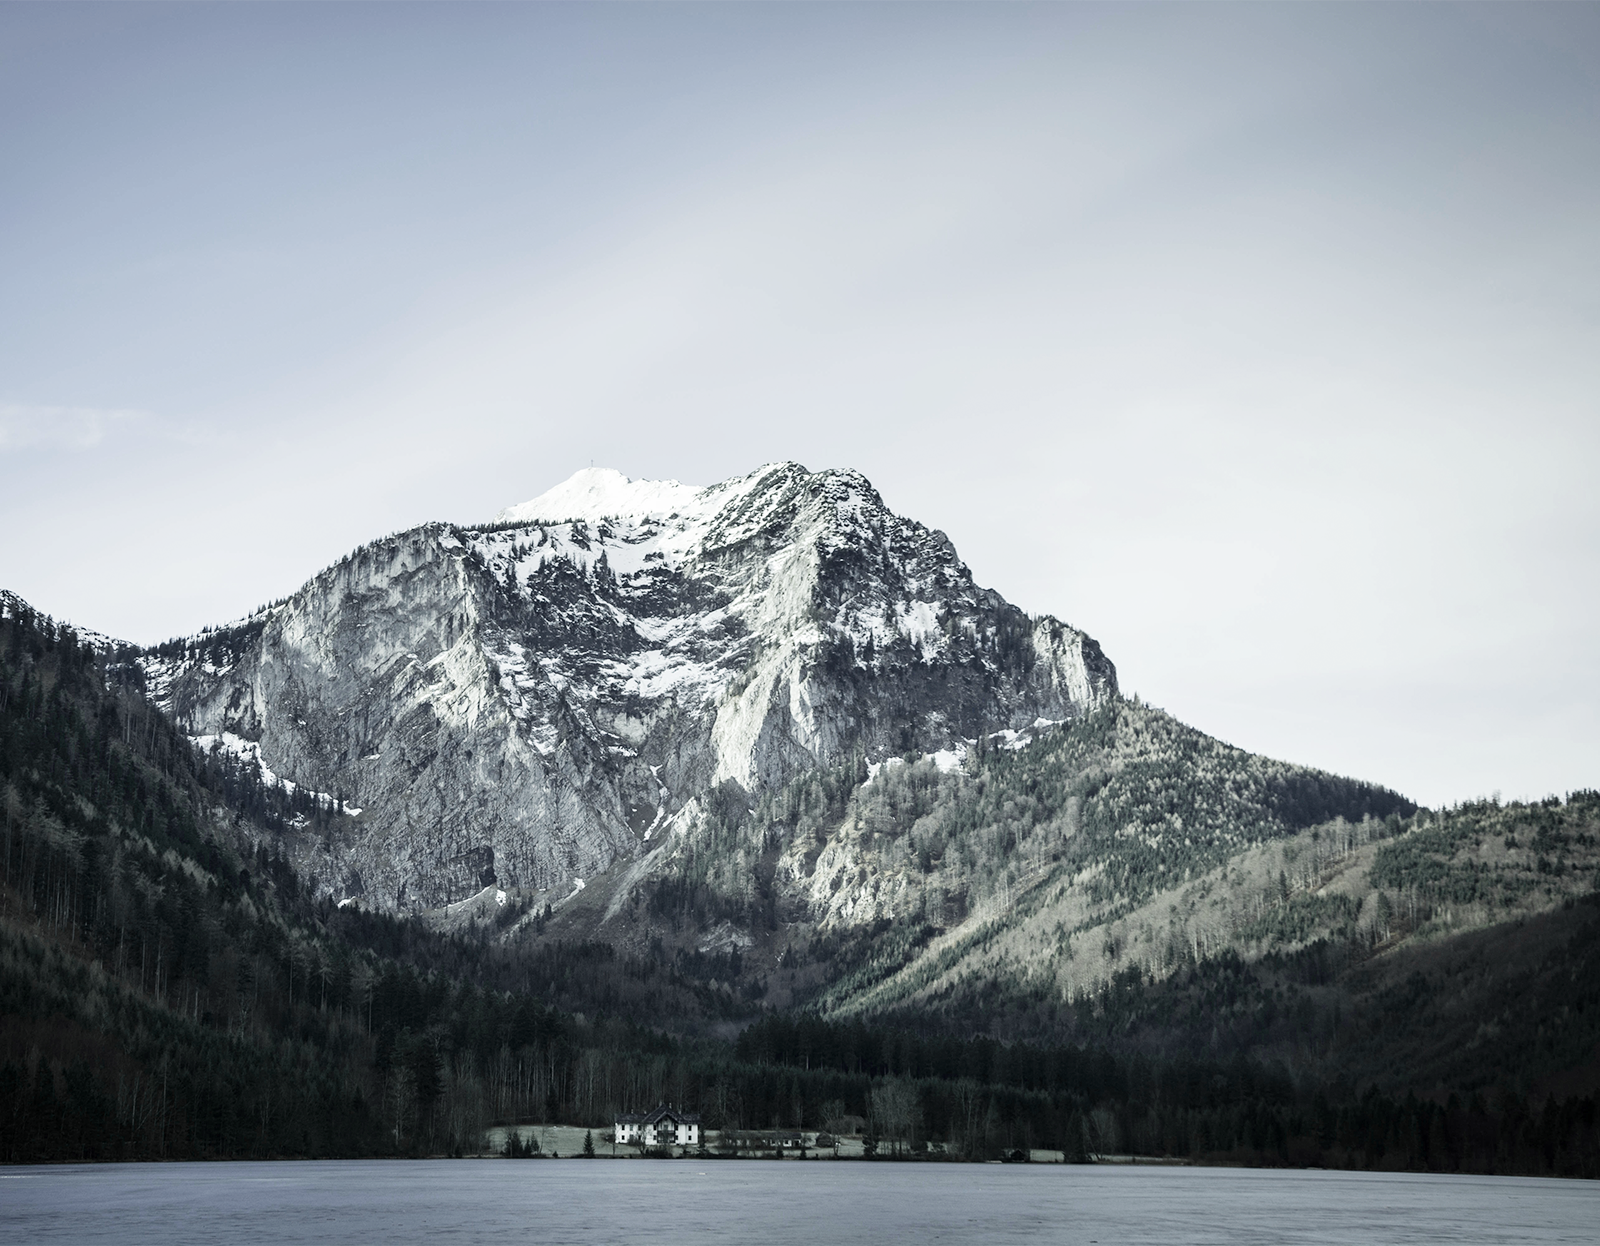
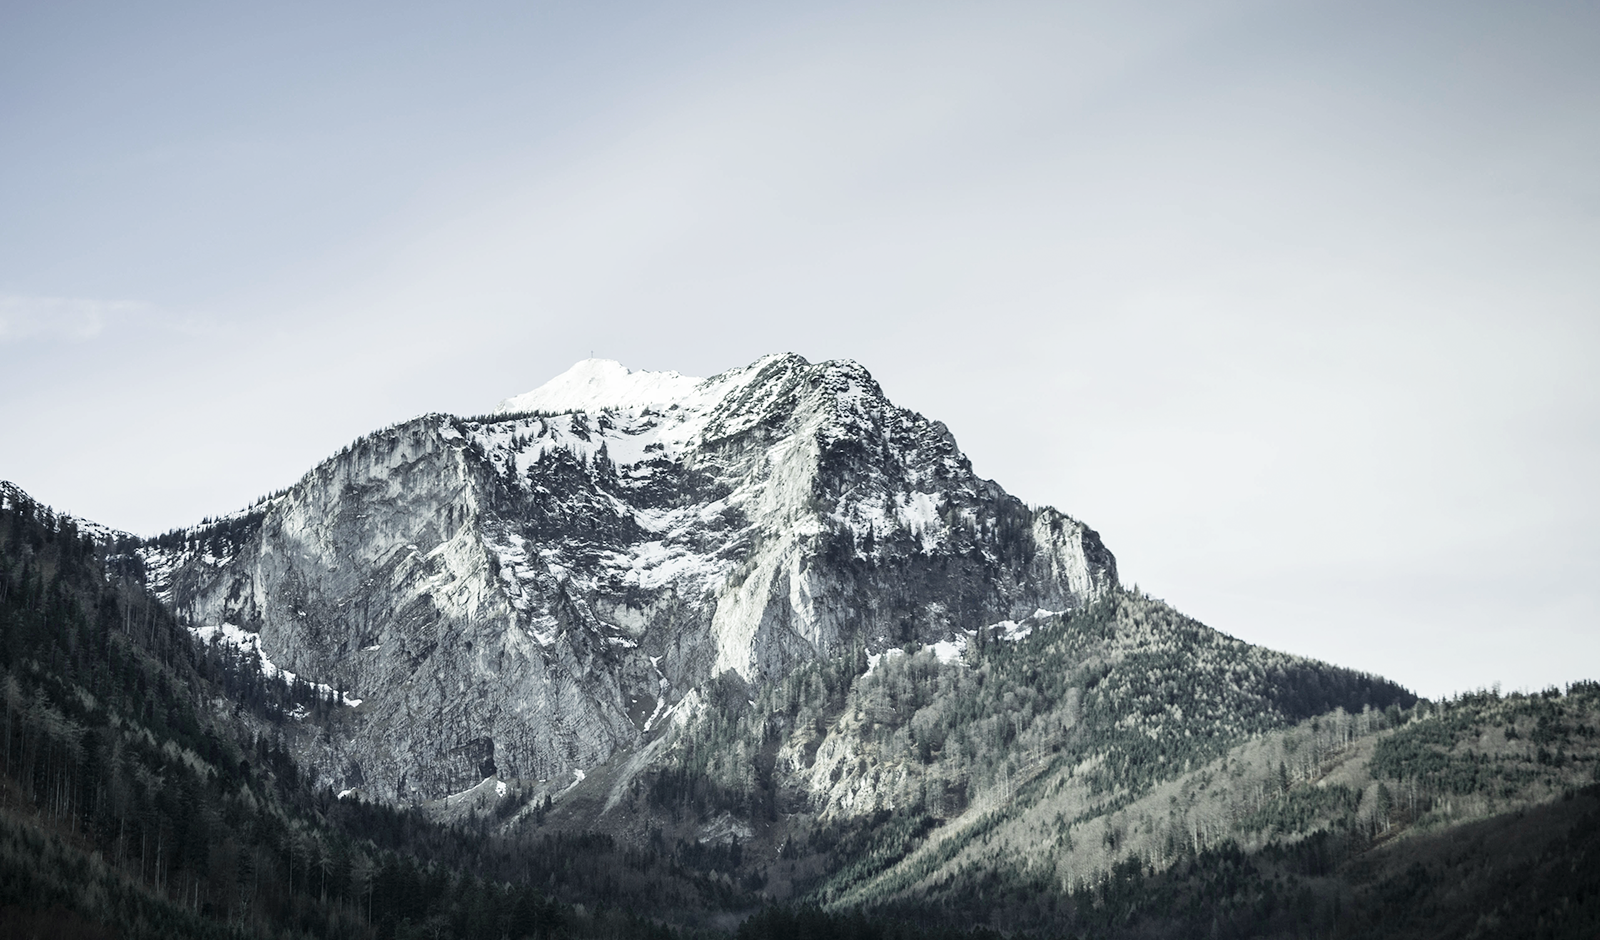
updated images with filters

diff --git a/style.css b/style.css
@@ -244,7 +244,7 @@
 }
 .LA-history h4 {
     position: absolute;
-    top: 28%;
+    top: 8.5%;
     right: 63%;
     color: #414f6b;
     font-family: "novecento-sans-condensed", sans-serif;
@@ -253,7 +253,7 @@
 }
 .LA-history p {
     position: absolute;
-    top: 42%;
+    top: 22%;
     left: 20%;
     margin-right: 10%;
     font-size: calc(1vw);
@@ -265,7 +265,7 @@
     font-family: "novecento-sans-condensed", sans-serif;
     font-size: calc(11vw + 1px);
     position: absolute;
-    bottom: 54.5%;
+    bottom: 74.5%;
     left: 5.85%;
     padding-left: 10%;
     padding-right: 10%;
